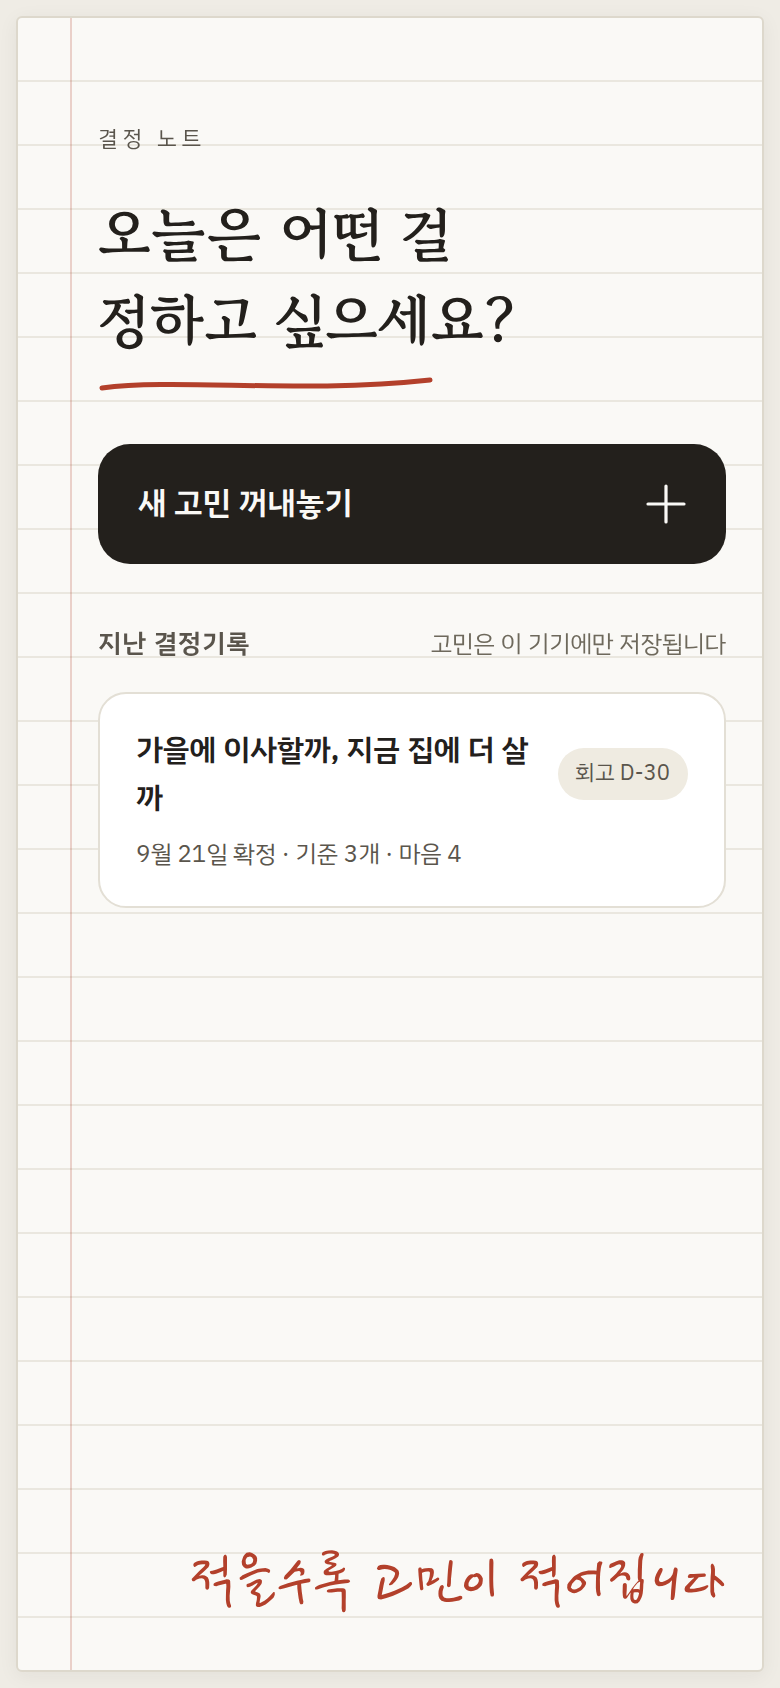
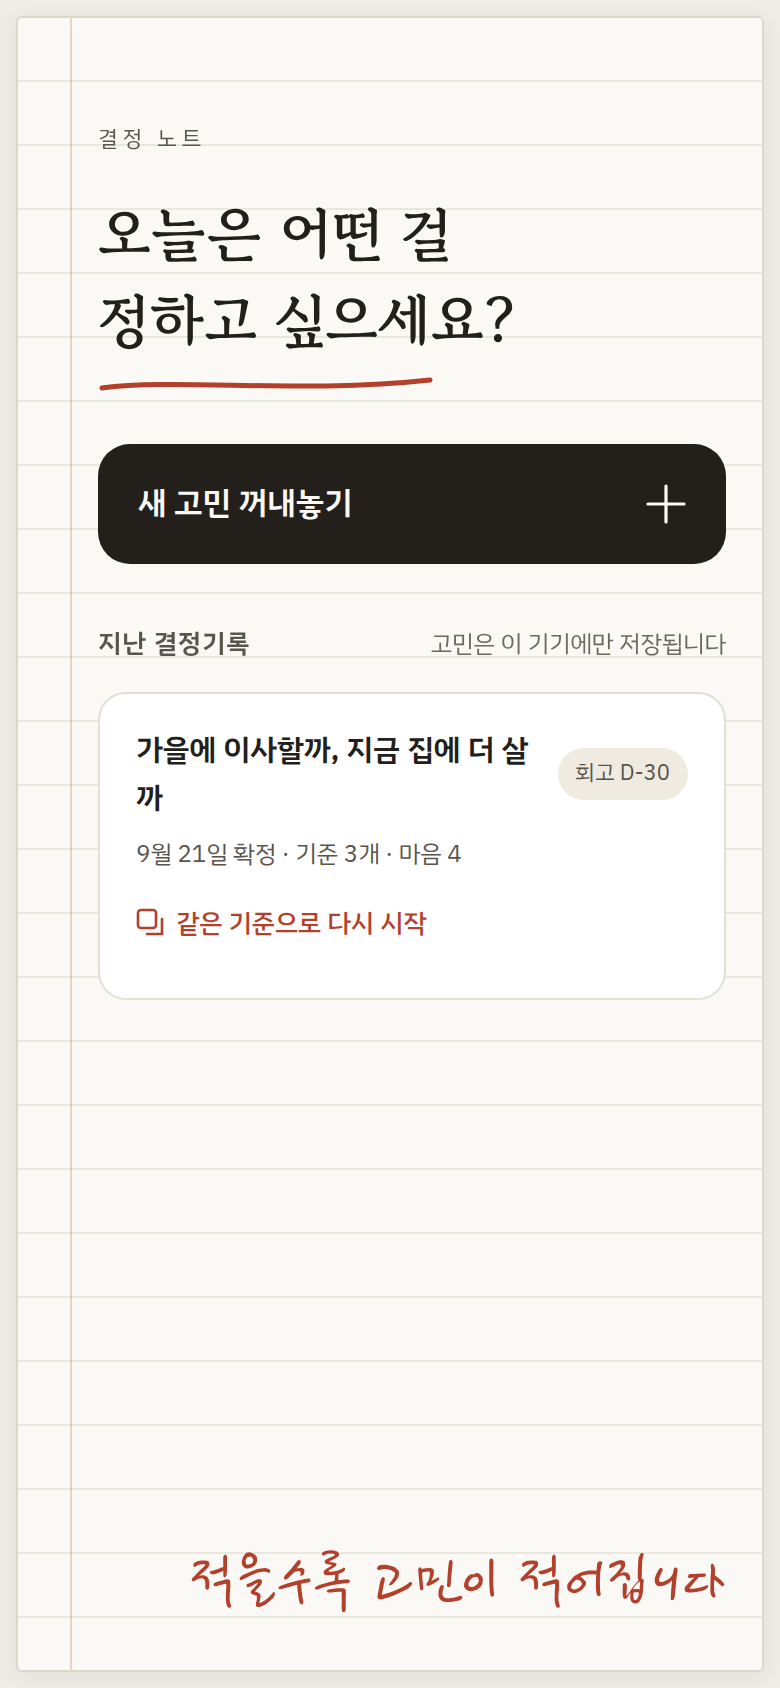
feat(main): 결정 복제 — 같은 대안·기준·MUST로 새로 시작
기획안 9.2 SHOULD의 마지막 미구현 항목. 지난 결정을 다시 겪을 때
(계약 갱신 시점 재검토 등) 대안·기준 이름·MUST 조건 이름·무게 순서를
그대로 옮겨 새 결정으로 시작한다.

점수·직감·확정·회고는 그 결정 하나에만 속하는 판단이라 가져오지 않고,
MUST 통과 여부도 새 대안 id에 맞춰 비워서 다시 판단하게 한다
(비워두면 '통과'로 보는 기존 규칙 그대로).

- store/factory.ts: duplicateDecision — 순수 변환, id 전부 새로 발급
- store/decisions.ts: duplicate(id) 액션, 로컬 우선 저장 뒤 동기화
- screens/Main.tsx: 카드 안 별도 버튼으로 분리 (Link 중첩 방지),
  기준이 있는 결정에만 노출
- components/Icons.tsx: CopyIcon 추가
- scripts/smoke.mjs: 복제 흐름 스모크 + 회고 조회를 confirm 여부로 구분

npm test·build·smoke 전부 통과. 화면이 바뀐 자리(홈)와 새로 생긴
매트릭스·프레임 재촬영분까지 스크린샷 갱신.

Claude-Session: https://claude.ai/code/session_01DfCYJNm8fnv5qvTtHT6e4k

Changed region(s): [[0.1231, 0.5237, 0.5538, 0.5853]]

diff --git a/src/screens/Main.tsx b/src/screens/Main.tsx
@@ -2,7 +2,7 @@ import { useEffect, useState } from 'react'
 import { Link, useNavigate } from 'react-router-dom'
 import { Paper } from '@/components/Paper'
 import { InkFlourish, InkPhrase } from '@/components/Ink'
-import { PlusIcon } from '@/components/Icons'
+import { CopyIcon, PlusIcon } from '@/components/Icons'
 import { delay } from '@/styles/motion'
 import { useDecisions } from '@/store/decisions'
 import { daysUntil, formatDate } from '@/store/factory'
@@ -16,8 +16,10 @@ export function Main() {
   const loading = useDecisions((s) => s.loading)
   const loadList = useDecisions((s) => s.loadList)
   const create = useDecisions((s) => s.create)
+  const duplicate = useDecisions((s) => s.duplicate)
   const [synced, setSynced] = useState(false)
   const [starting, setStarting] = useState(false)
+  const [duplicatingId, setDuplicatingId] = useState<string | null>(null)
 
   useEffect(() => {
     void loadList()
@@ -29,6 +31,14 @@ export function Main() {
     setStarting(true)
     const decision = await create()
     navigate(`/d/${decision.id}/frame`)
+  }
+
+  async function duplicateAndOpen(id: string) {
+    if (duplicatingId) return
+    setDuplicatingId(id)
+    const copy = await duplicate(id)
+    if (copy) navigate(`/d/${copy.id}/must`)
+    else setDuplicatingId(null)
   }
 
   return (
@@ -89,7 +99,13 @@ export function Main() {
           </p>
         ) : (
           summaries.map((summary, i) => (
-            <DecisionCard key={summary.id} summary={summary} index={i} />
+            <DecisionCard
+              key={summary.id}
+              summary={summary}
+              index={i}
+              onDuplicate={duplicateAndOpen}
+              duplicating={duplicatingId === summary.id}
+            />
           ))
         )}
       </div>
@@ -108,23 +124,44 @@ export function Main() {
 }
 
 /** 결정 하나의 현재 상태를 한 줄로 요약한다. */
-function DecisionCard({ summary, index }: { summary: DecisionSummary; index: number }) {
+function DecisionCard({
+  summary,
+  index,
+  onDuplicate,
+  duplicating,
+}: {
+  summary: DecisionSummary
+  index: number
+  onDuplicate: (id: string) => void
+  duplicating: boolean
+}) {
   const { badge, badgeTone } = statusBadge(summary)
 
   return (
-    <Link
-      to={resumePath(summary)}
-      className="card m-settle"
-      style={{ color: 'inherit', display: 'block', ...delay(index, 'm-settle', 540) }}
-    >
-      <div style={{ display: 'flex', alignItems: 'center', justifyContent: 'space-between', gap: 10 }}>
-        <span style={{ fontSize: 15, fontWeight: 600, overflowWrap: 'anywhere' }}>
-          {summary.question.trim() === '' ? '제목 없는 고민' : summary.question}
-        </span>
-        <span className={`chip chip--sm${badgeTone === 'accent' ? ' chip--pass' : ''}`}>{badge}</span>
-      </div>
-      <div style={{ marginTop: 7, fontSize: 12, color: 'var(--soft)' }}>{subtitle(summary)}</div>
-    </Link>
+    <div className="card m-settle" style={delay(index, 'm-settle', 540)}>
+      <Link to={resumePath(summary)} style={{ color: 'inherit', display: 'block' }}>
+        <div style={{ display: 'flex', alignItems: 'center', justifyContent: 'space-between', gap: 10 }}>
+          <span style={{ fontSize: 15, fontWeight: 600, overflowWrap: 'anywhere' }}>
+            {summary.question.trim() === '' ? '제목 없는 고민' : summary.question}
+          </span>
+          <span className={`chip chip--sm${badgeTone === 'accent' ? ' chip--pass' : ''}`}>{badge}</span>
+        </div>
+        <div style={{ marginTop: 7, fontSize: 12, color: 'var(--soft)' }}>{subtitle(summary)}</div>
+      </Link>
+
+      {summary.criteriaCount > 0 && (
+        <button
+          type="button"
+          className="btn--link"
+          disabled={duplicating}
+          onClick={() => onDuplicate(summary.id)}
+          style={{ display: 'flex', alignItems: 'center', gap: 6, marginTop: 2 }}
+        >
+          <CopyIcon />
+          {duplicating ? '새로 시작하는 중…' : '같은 기준으로 다시 시작'}
+        </button>
+      )}
+    </div>
   )
 }
 

diff --git a/src/store/factory.ts b/src/store/factory.ts
@@ -40,6 +40,33 @@ export function newMust(name = ''): MustCondition {
   return { id: newId(), name, passes: {} }
 }
 
+/**
+ * 결정 복제 (기획안 9.2 SHOULD) — 대안·기준·MUST 이름·무게 순서까지만 옮기고
+ * 판단은 새로 시작한다. 점수·직감·확정·회고는 이 결정 하나에만 속하는 것이라 가져오지 않는다.
+ * MUST 통과 여부도 새 대안 id에 맞춰 다시 매긴다 (비워두면 "통과"로 본다).
+ */
+export function duplicateDecision(original: Decision): Decision {
+  const now = new Date().toISOString()
+  return {
+    id: newId(),
+    question: original.question,
+    alternatives: original.alternatives.map((a) => ({ ...a, id: newId() })),
+    criteria: original.criteria.map((c) => ({ ...c, id: newId() })),
+    musts: original.musts.map((m) => ({ id: newId(), name: m.name, passes: {} })),
+    scores: {},
+    gut: { alternativeId: null, confidence: null },
+    commit: null,
+    review: null,
+    stage: 'must',
+    createdAt: now,
+    updatedAt: now,
+    hiddenAlternativeAsked: false,
+    dismissedDuplicateHints: [],
+    weightOverride: original.weightOverride ? [...original.weightOverride] : null,
+    insight: null,
+  }
+}
+
 /** 화면에 보이는 단계 순서. 진행 단계바와 "다음" 버튼이 같은 표를 쓴다. */
 export const FLOW = [
   'frame',

diff --git a/src/store/decisions.ts b/src/store/decisions.ts
@@ -6,7 +6,7 @@ import type { Decision } from '@/core/types'
 import { localRepository } from '@/data/local'
 import type { DecisionSummary } from '@/data/repository'
 import { pushIfEnabled, removeIfEnabled } from '@/data/sync'
-import { newDecision } from './factory'
+import { duplicateDecision, newDecision } from './factory'
 
 interface DecisionStore {
   summaries: DecisionSummary[]
@@ -16,6 +16,8 @@ interface DecisionStore {
   loadList: () => Promise<void>
   load: (id: string) => Promise<Decision | null>
   create: () => Promise<Decision>
+  /** 있는 결정의 틀(대안·기준·무게)로 새 결정을 시작한다. 원본이 없으면 null. */
+  duplicate: (id: string) => Promise<Decision | null>
   update: (patch: (decision: Decision) => Decision) => void
   remove: (id: string) => Promise<void>
 }
@@ -76,6 +78,15 @@ export const useDecisions = create<DecisionStore>((set, get) => ({
     await persist(decision)
     set({ current: decision })
     return decision
+  },
+
+  async duplicate(id) {
+    const original = await localRepository.get(id)
+    if (!original) return null
+    const copy = duplicateDecision(original)
+    await persist(copy)
+    set({ current: copy })
+    return copy
   },
 
   update(patch) {

diff --git a/src/components/Icons.tsx b/src/components/Icons.tsx
@@ -146,6 +146,15 @@ export function CautionIcon() {
   )
 }
 
+export function CopyIcon() {
+  return (
+    <svg width="14" height="14" viewBox="0 0 14 14" fill="none" aria-hidden="true">
+      <rect x="1" y="1" width="9" height="9" rx="1.5" stroke="var(--pen)" strokeWidth="1.3" />
+      <path d="M5.5 13 H13 V5.5" stroke="var(--pen)" strokeWidth="1.3" strokeLinecap="round" />
+    </svg>
+  )
+}
+
 export function ArrowRightIcon({ delayMs = 0 }: { delayMs?: number }) {
   return (
     <svg width="26" height="14" viewBox="0 0 26 14" fill="none" aria-hidden="true" style={{ flexShrink: 0 }}>
